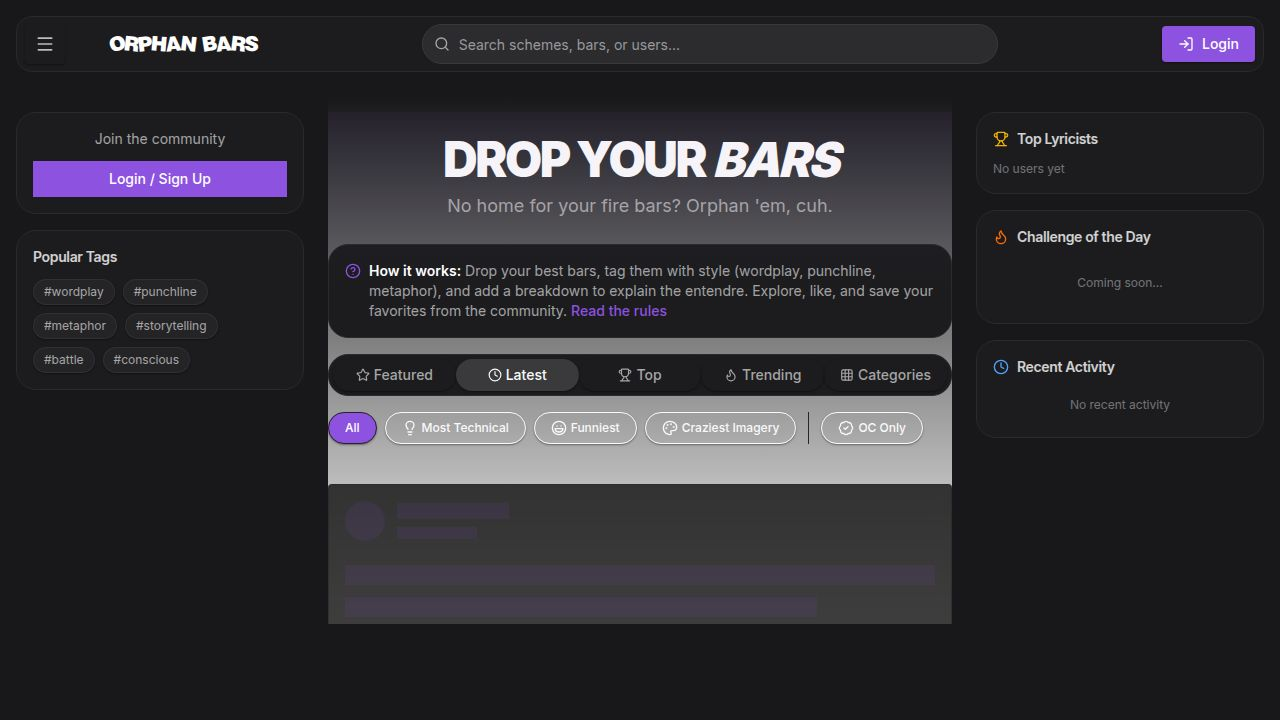
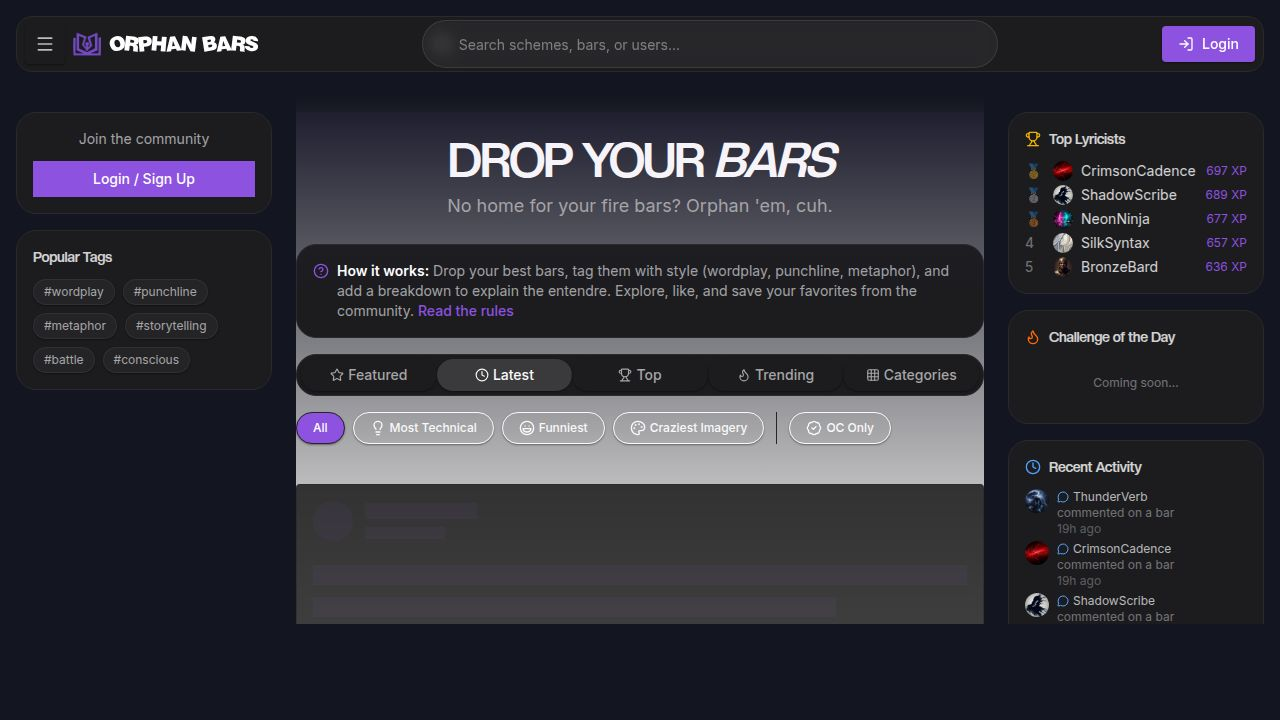
Make the feed display across the entire screen without white space
Update the desktop layout to remove sidebars, allow the feed to take full screen width, and adjust padding.

Replit-Commit-Author: Agent
Replit-Commit-Session-Id: 512be04f-1234-4cc3-a51c-c96c24efcdb5
Replit-Commit-Checkpoint-Type: full_checkpoint
Replit-Commit-Event-Id: d32912b4-2102-40e1-a613-92bf07970b04
Replit-Commit-Screenshot-Url: https://storage.googleapis.com/screenshot-production-us-central1/ceffc5c3-e952-4163-a449-5ae4e89adb8e/512be04f-1234-4cc3-a51c-c96c24efcdb5/yJE0obQ
Replit-Helium-Checkpoint-Created: true

diff --git a/client/src/pages/Home.tsx b/client/src/pages/Home.tsx
@@ -197,7 +197,7 @@ export default function Home() {
       </div>
 
       {/* Desktop: Three column layout - fixed height, only center scrolls */}
-      <div className="hidden md:flex h-[calc(100vh-96px)] pt-24 max-w-[1600px] mx-auto px-4 gap-6">
+      <div className="hidden md:flex h-screen pt-16 px-4 gap-4">
         {/* Left Column - Fixed, non-scrolling */}
         <aside className="w-64 shrink-0 space-y-4 overflow-y-auto py-4 scrollbar-thin">
           {/* User Profile Preview Pane */}
@@ -253,7 +253,7 @@ export default function Home() {
         </aside>
         
         {/* Center Column - Feed (scrollable) */}
-        <main className="flex-1 min-w-[500px] overflow-y-auto py-4 scrollbar-thin">
+        <main className="flex-1 overflow-y-auto py-4 scrollbar-thin">
           <div className="relative">
             <div className="absolute inset-0 bg-gradient-to-b from-primary/5 to-transparent h-48 pointer-events-none" />
             
